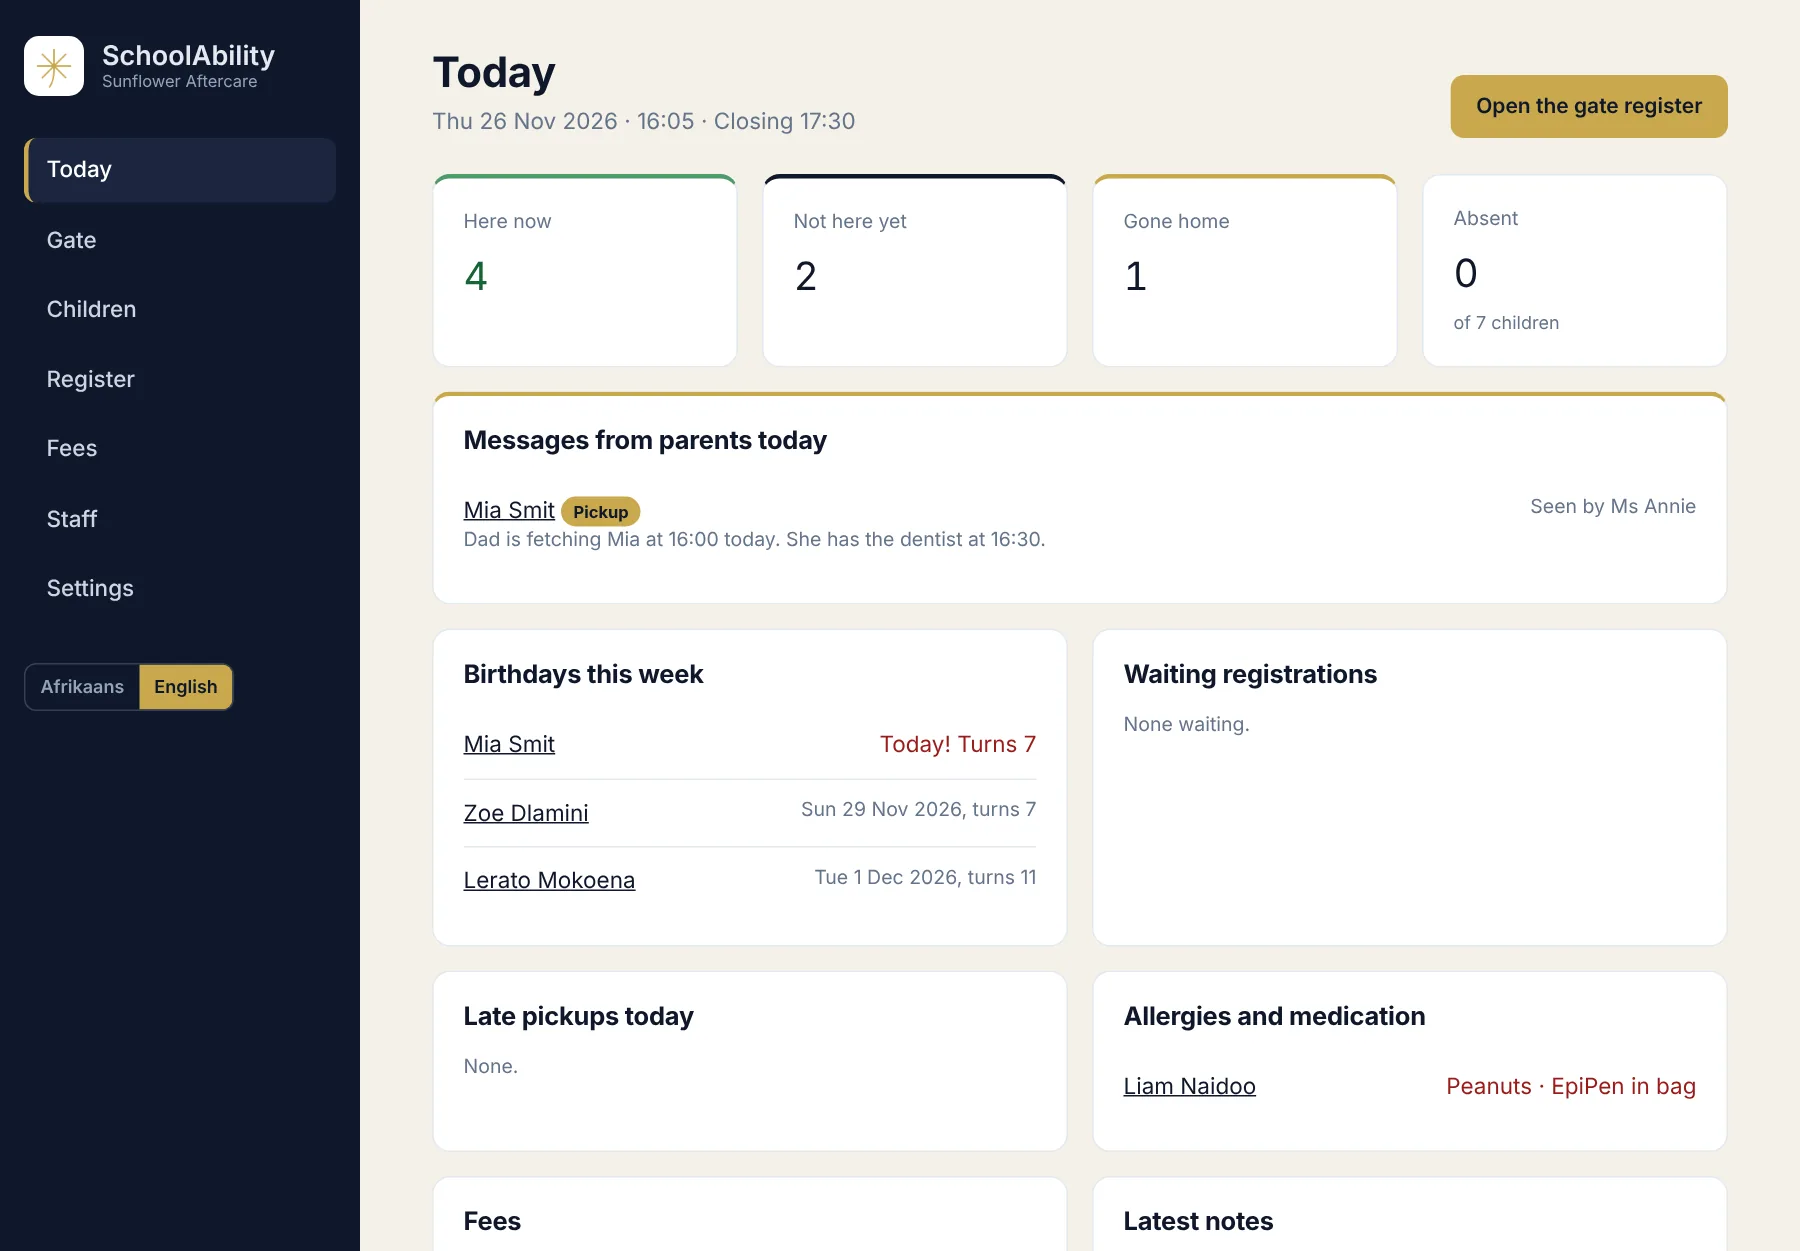
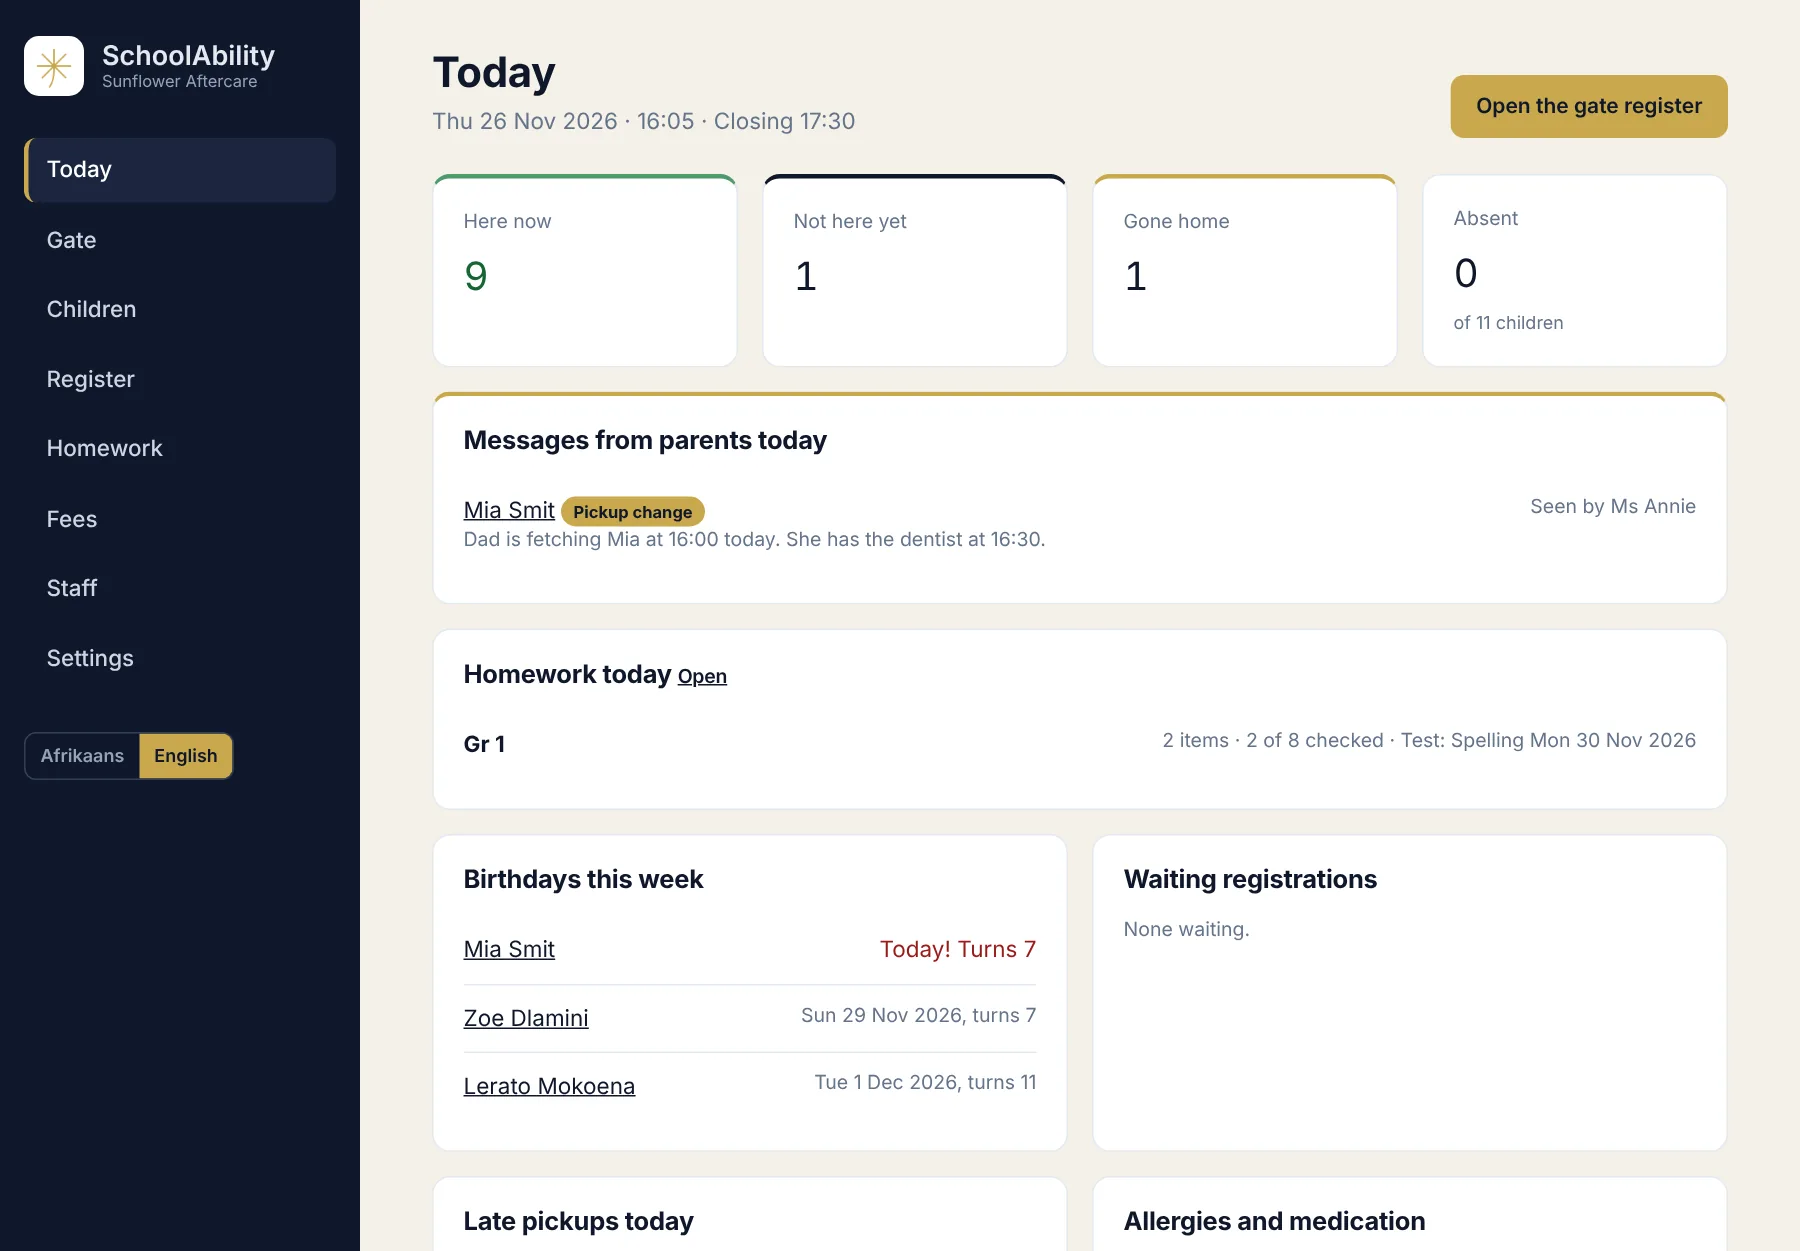
SchoolAbility page: new screenshots with homework

diff --git a/src/app/schoolability/schoolability-html.js b/src/app/schoolability/schoolability-html.js
@@ -215,7 +215,7 @@ const html = `
 
 <section class="band"><div class="wrap">
   <h2>See it in action</h2>
-  <p class="sub">The principal's Today page, the gate on a teacher's phone and the parent page.</p>
+  <p class="sub">The principal's Today page, the gate and the homework list on a teacher's phone, and the parent page.</p>
   <div class="shotframe"><div class="bar"><i></i><i></i><i></i><span>Your private SchoolAbility link</span></div><img src="/images/schoolability/dashboard.webp" alt="SchoolAbility Today page with children here now, a parent message, birthdays this week and allergies" width="1800" height="1251" loading="lazy"></div>
   <div class="phones">
     <div><div class="shotframe phone"><img src="/images/schoolability/gate-list.webp" alt="The gate register on a phone, with Message and Birthday tags on Mia's name" width="780" height="1600" loading="lazy"></div><p class="cap">The gate register</p></div>
@@ -223,13 +223,14 @@ const html = `
     <div><div class="shotframe phone"><img src="/images/schoolability/gate-pickup.webp" alt="Choosing who is fetching Mia from her list, with a warning option for someone else" width="780" height="1600" loading="lazy"></div><p class="cap">Only the people on her list</p></div>
   </div>
   <div class="shots">
+    <div><div class="shotframe"><img src="/images/schoolability/homework.webp" alt="The Homework page for Gr 1 with each child marked not done, done or checked" width="1800" height="1251" loading="lazy"></div><p class="cap">Homework for each grade</p></div>
     <div><div class="shotframe"><img src="/images/schoolability/register.webp" alt="The day's register with arrival and sign-out times and who fetched each child" width="1800" height="1251" loading="lazy"></div><p class="cap">The day's register</p></div>
     <div><div class="shotframe"><img src="/images/schoolability/fees.webp" alt="The fees page for November with charged, paid and owed amounts" width="1800" height="1251" loading="lazy"></div><p class="cap">Fees for the month</p></div>
   </div>
   <div class="phones">
     <div><div class="shotframe phone"><img src="/images/schoolability/register-form.webp" alt="The registration form parents fill in on their phone" width="780" height="1600" loading="lazy"></div><p class="cap">The registration form</p></div>
-    <div><div class="shotframe phone"><img src="/images/schoolability/parent-message.webp" alt="The parent page with a sent message marked as seen by the teacher" width="780" height="1600" loading="lazy"></div><p class="cap">Mom sees her message was read</p></div>
-    <div><div class="shotframe phone"><img src="/images/schoolability/parent-register.webp" alt="The parent page register showing when Mia arrived, left and who fetched her" width="780" height="1600" loading="lazy"></div><p class="cap">When she left, and with whom</p></div>
+    <div><div class="shotframe phone"><img src="/images/schoolability/teacher-homework.webp" alt="The teacher's homework list on a phone, with each child marked not done, done or checked" width="780" height="1600" loading="lazy"></div><p class="cap">Homework, ticked per child</p></div>
+    <div><div class="shotframe phone"><img src="/images/schoolability/parent-homework.webp" alt="The parent page homework tab showing what was checked and the spelling test coming up" width="780" height="1600" loading="lazy"></div><p class="cap">Mom sees what was checked</p></div>
   </div>
   <p class="shotnote" style="color:#94A3B8">Screens show a made-up demo school.</p>
 </div></section>
